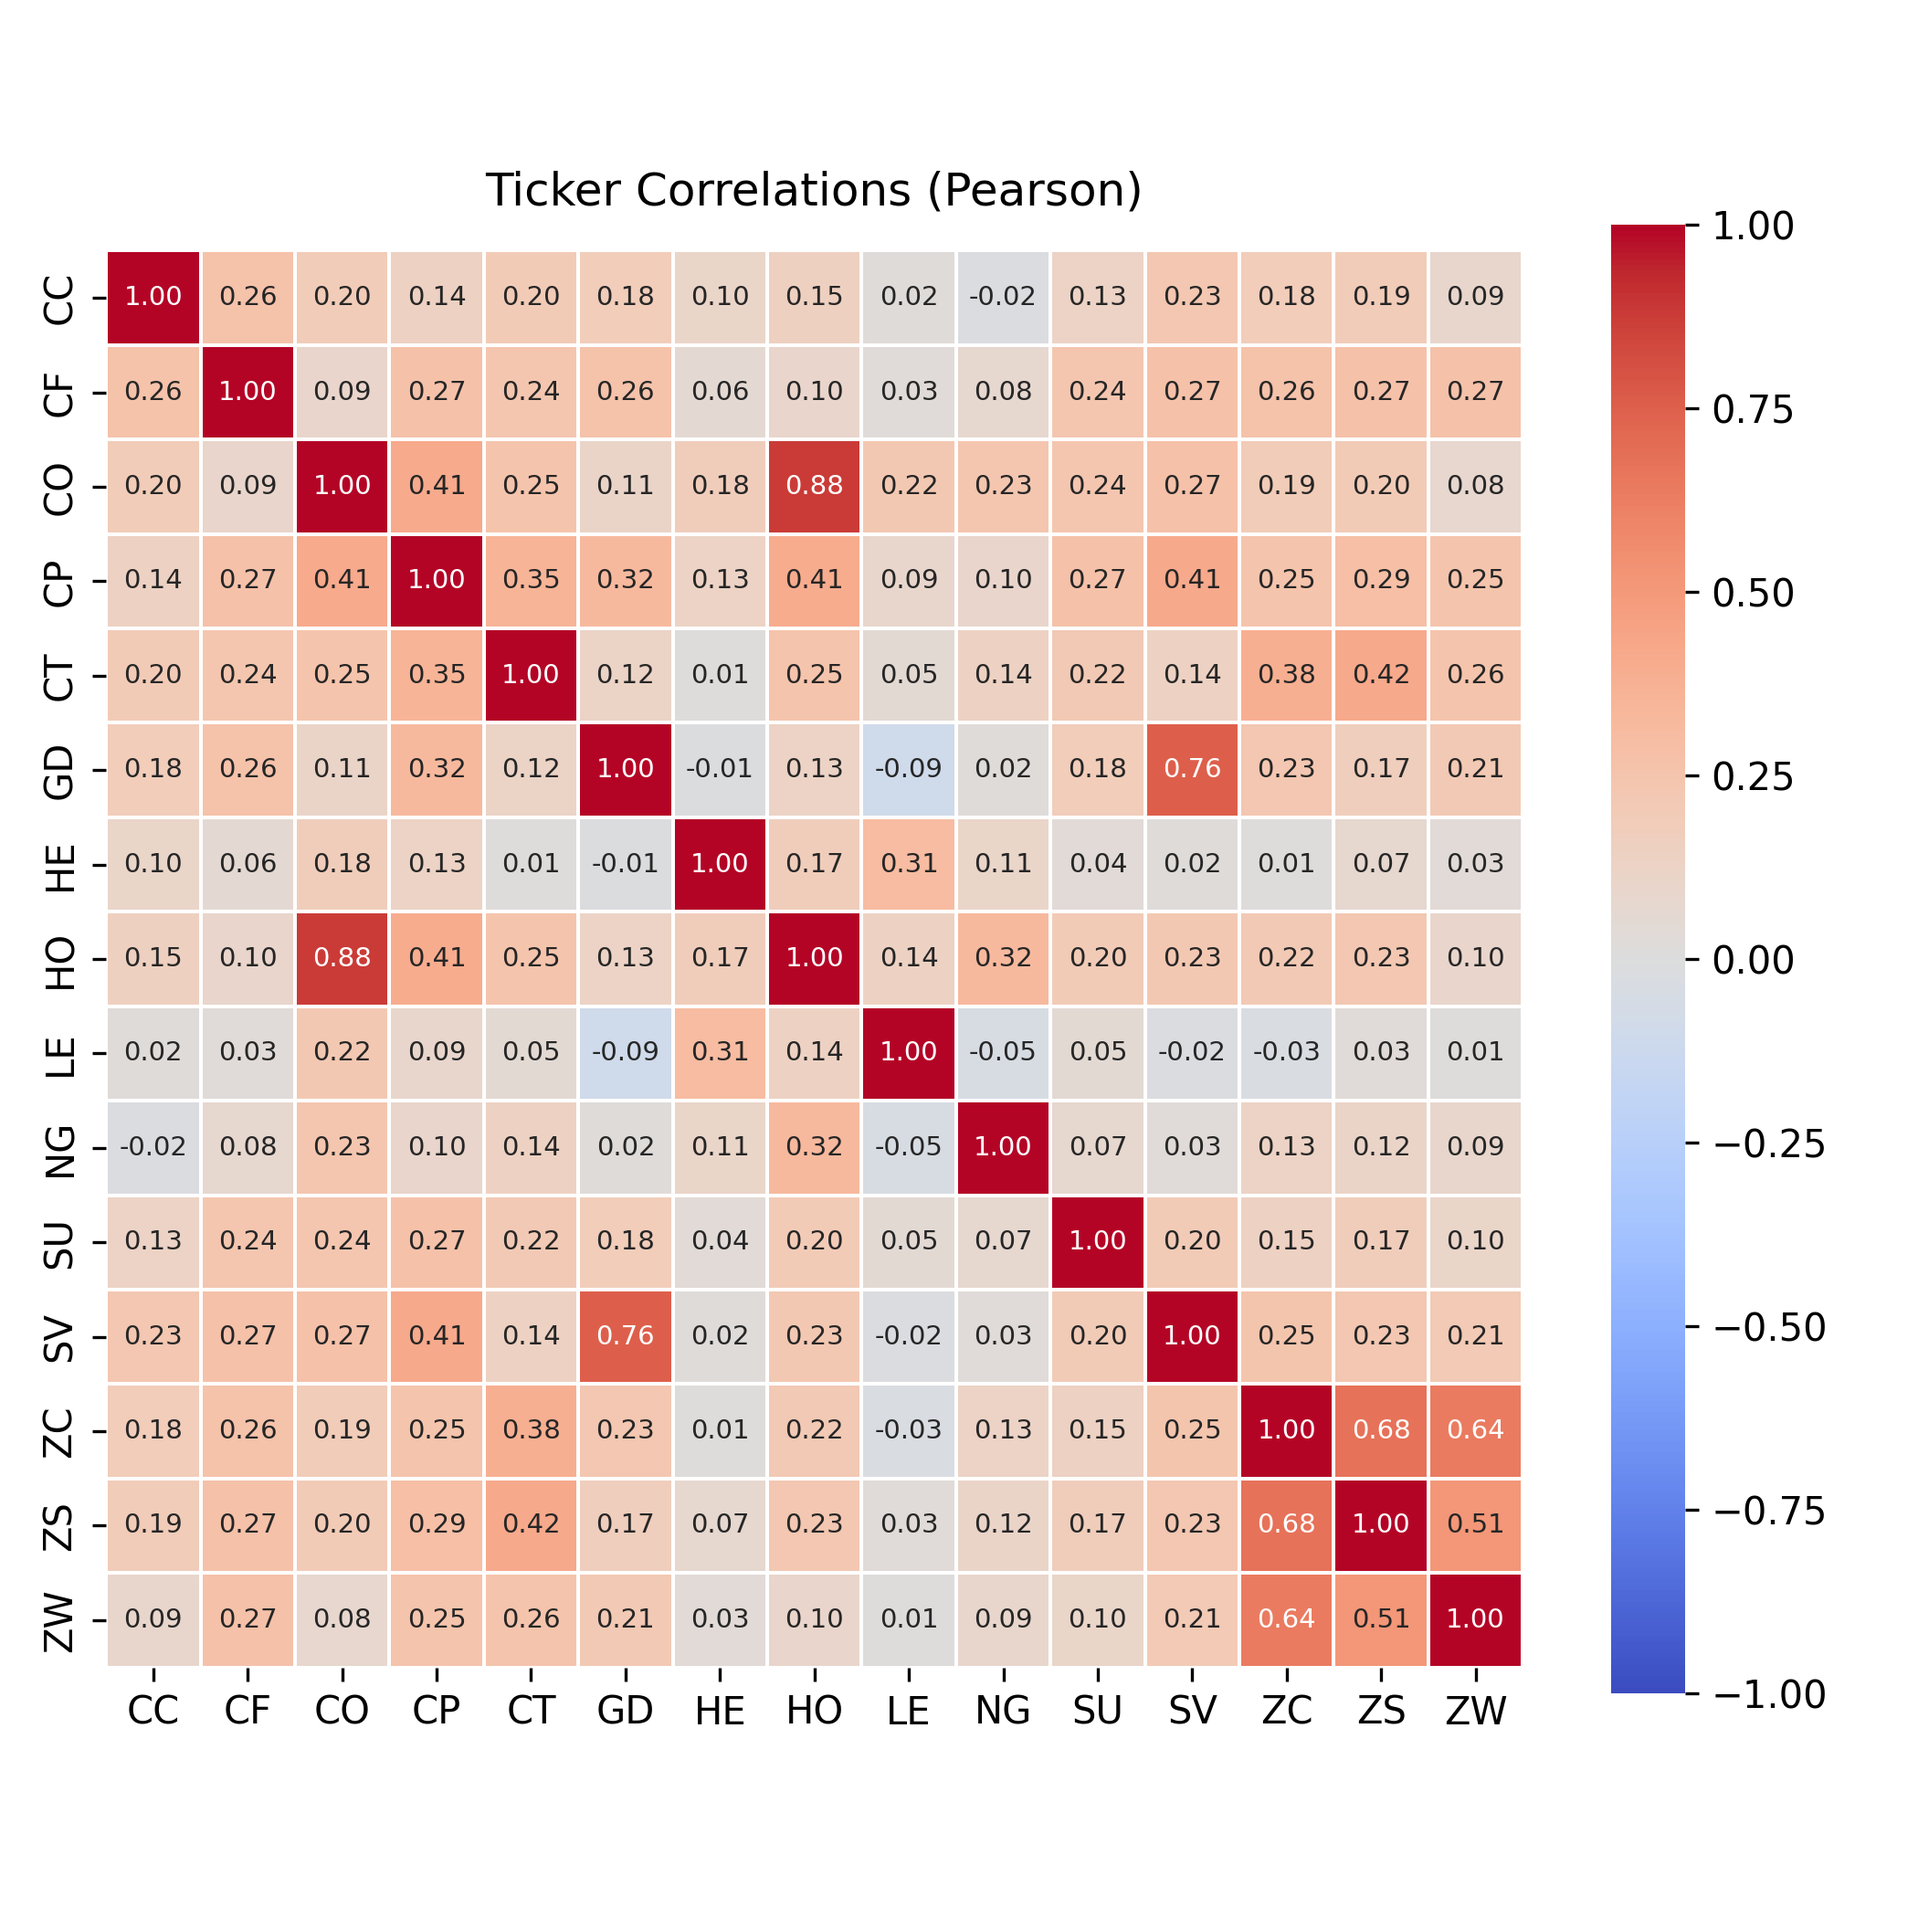
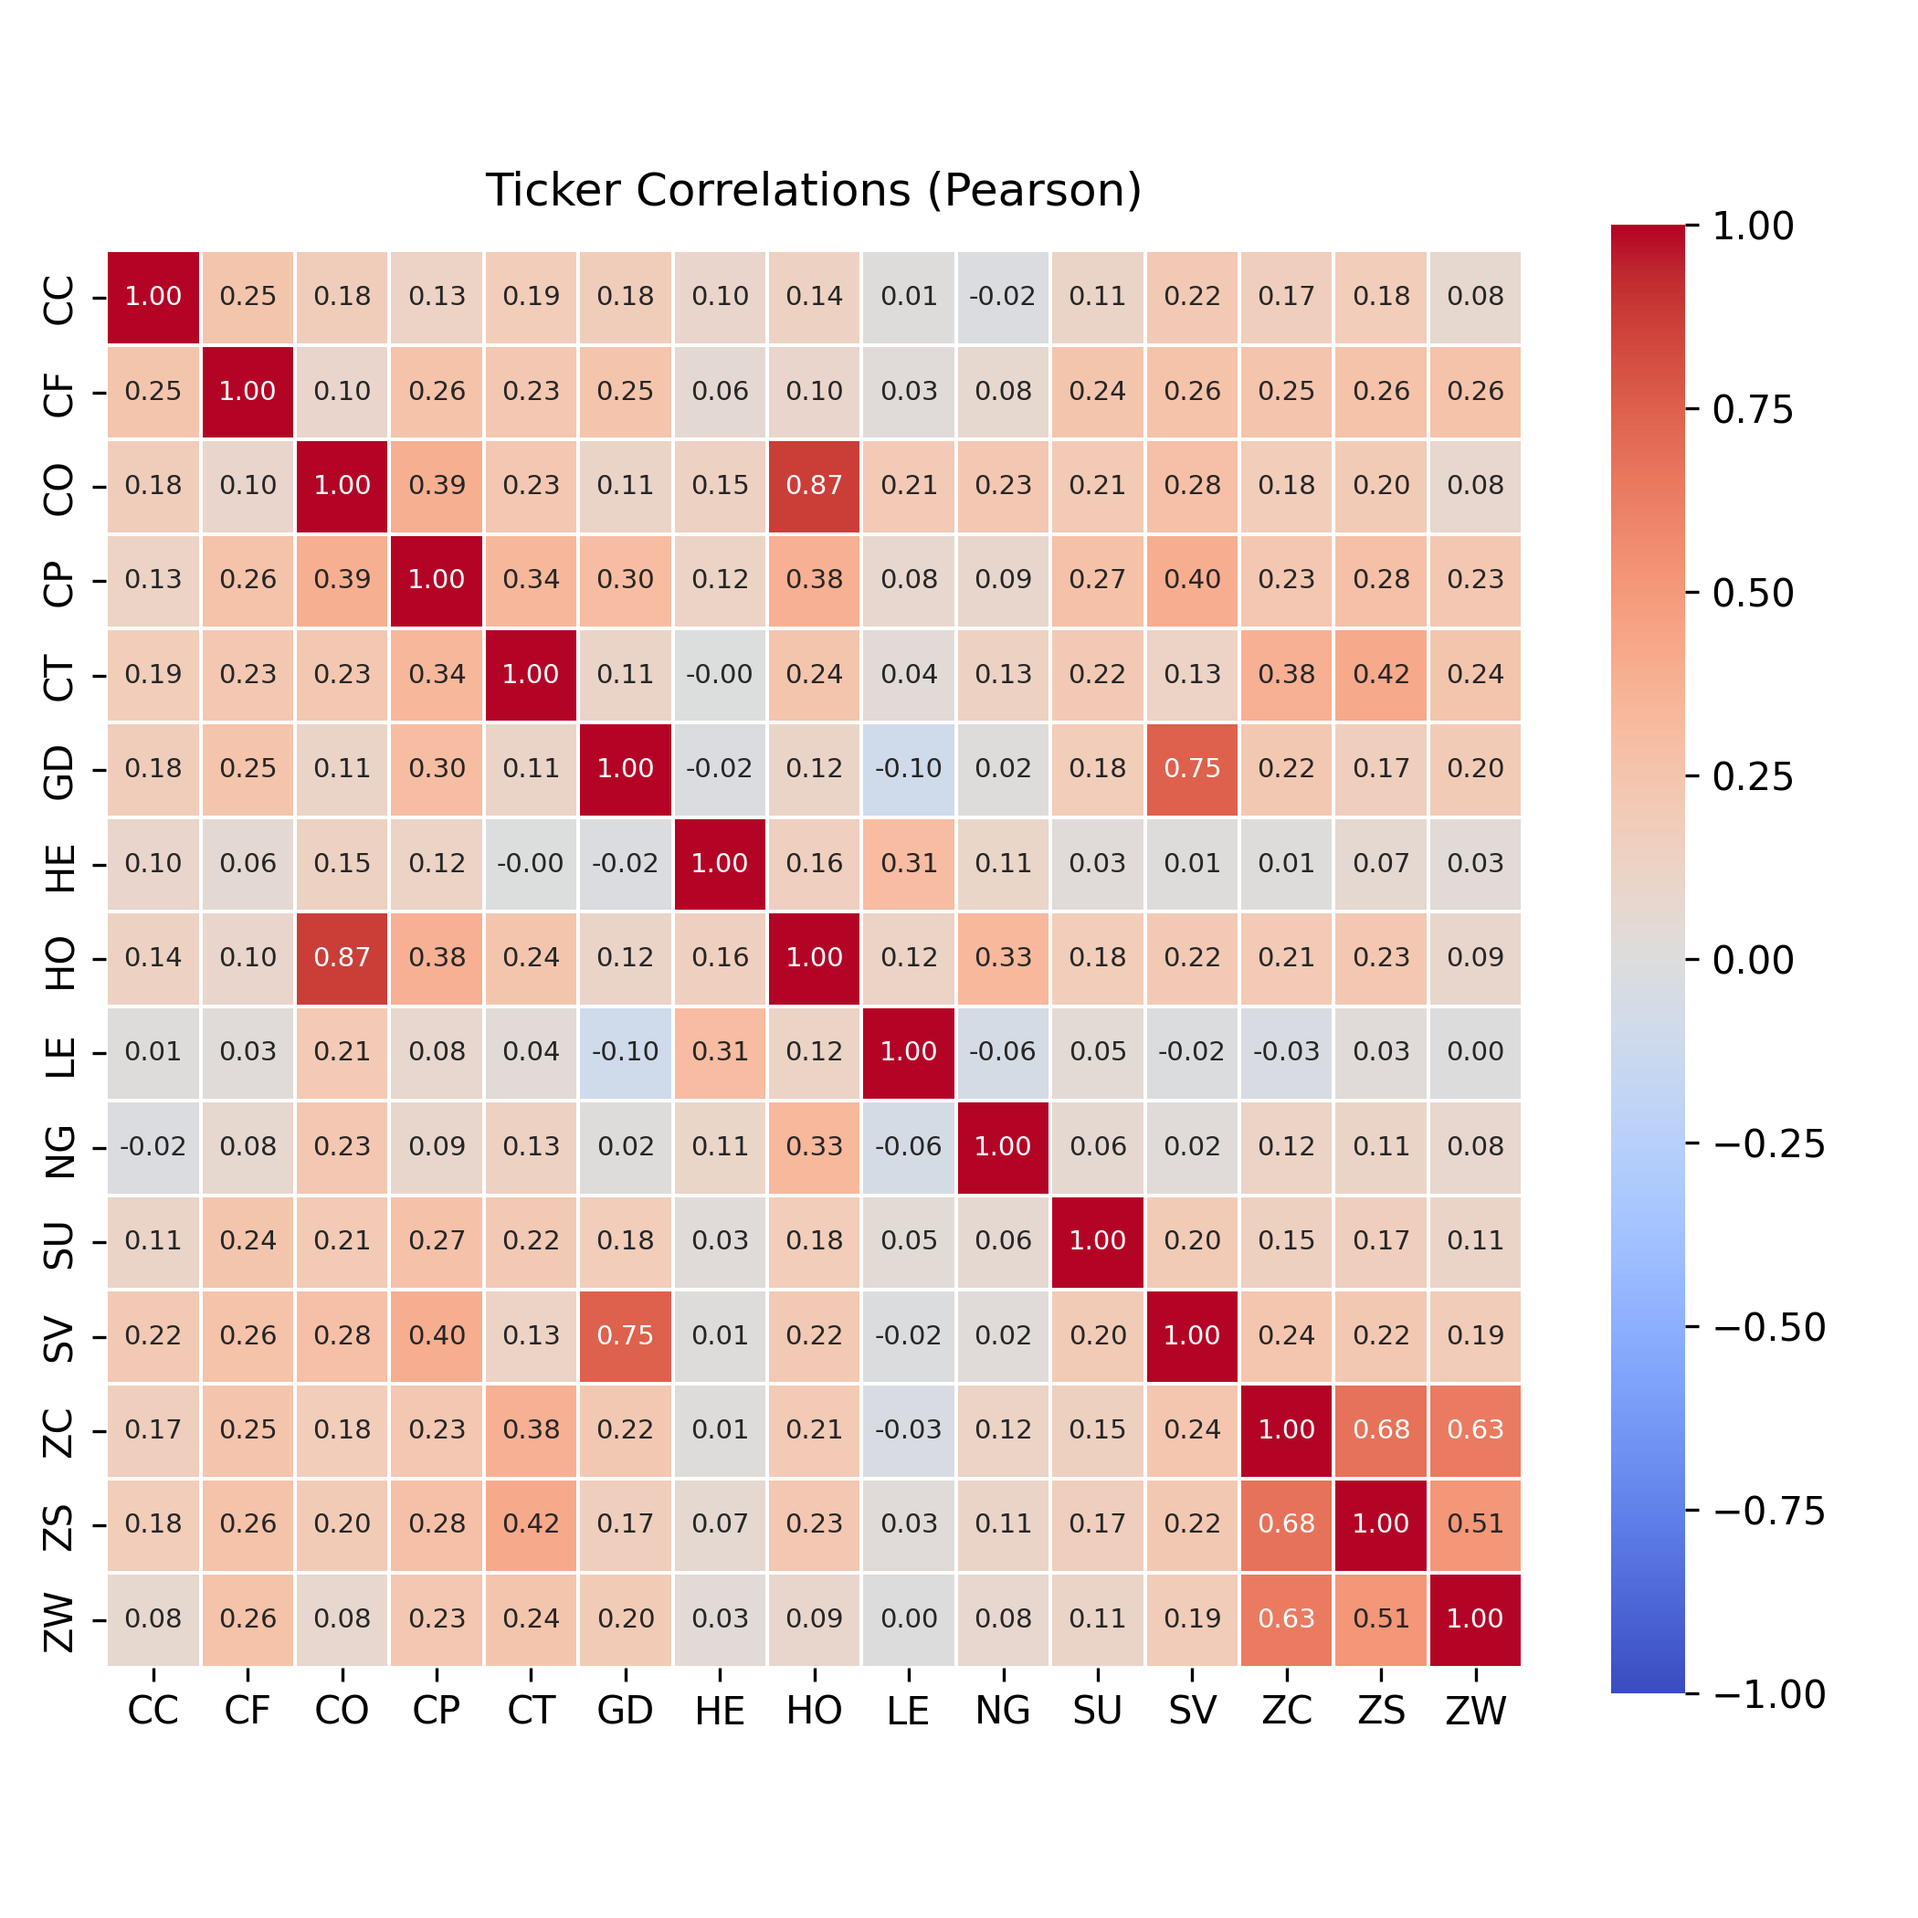
Change for Correlation Matrix from log to simple returns

diff --git a/Data Analysis/Helper Function/Correlation_Matrix_Creator.py b/Data Analysis/Helper Function/Correlation_Matrix_Creator.py
@@ -213,7 +213,7 @@ def run_correlation_matrix(
     """
     # Paths (match your other scripts)
     project_root = Path().resolve().parent.parent
-    data_root = project_root / "Complete Data" / "All_Monthly_Log_Return_Data"
+    data_root = project_root / "Complete Data" / "All_Monthly_Return_Data"
     out_root = Path().resolve() / "Reports" / "Correlation"
     out_root.mkdir(parents=True, exist_ok=True)
 
